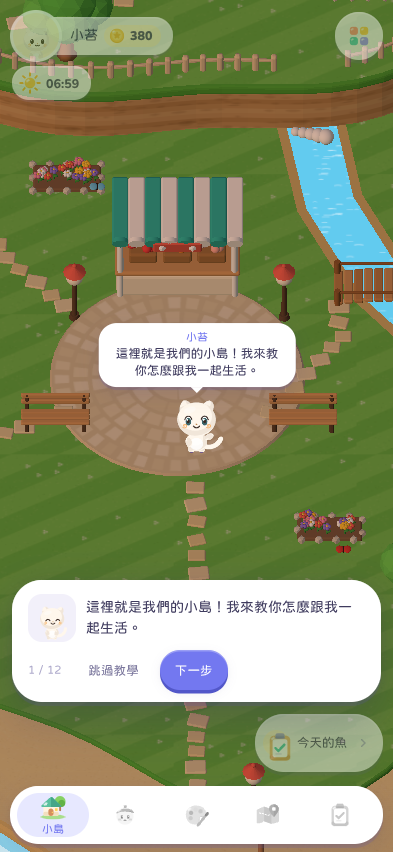
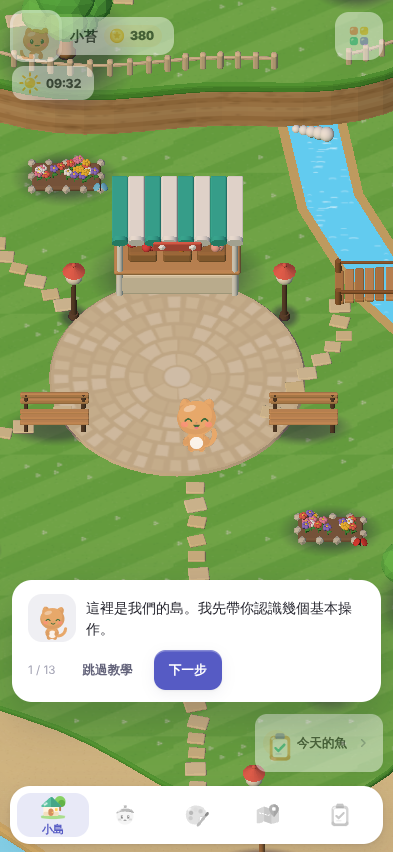
12.0: fix the played semi-mode character idling for the first 40 s after launch (cmdAt started at 0 on a page-relative clock); stabilise v12 tests (polling instead of fixed waits, lowest skill for the level-up cue)
Claude-Session: https://claude.ai/code/session_01PAZxUZ1nduqVoNWZ69f7R7

diff --git a/game/tests/v12/run.js b/game/tests/v12/run.js
@@ -143,7 +143,7 @@ const { check, wait } = H;
         for (const mode of ['manual', 'semi', 'auto']) {
           for (const c0 of OC.Chars.all()) { OC.Brain.setControl(c0.id, mode); const b0 = OC.Brain.get(c0.id); b0.holds.clear(); b0.invited = null; }   // everybody in the same mode: nobody invites a manual one
           for (const who of [id, mate]) {
-            const c = OC.Chars.get(who), b = OC.Brain.get(who); if (b.st === 'do' || b.st === 'go' || b.st === 'social') OC.Brain.abort(b, 't'); b.cmdAt = 0; b.queued = null; if (b.a) b.a.path = null; b.thinkAt = 0;
+            const c = OC.Chars.get(who), b = OC.Brain.get(who); if (b.st === 'do' || b.st === 'go' || b.st === 'social') OC.Brain.abort(b, 't'); b.cmdAt = -1e9; b.queued = null; if (b.a) b.a.path = null; b.thinkAt = 0;
             Object.assign(c.needs, { fun: 15, interest: 15, active: 15, social: 20, food: 85, sleep: 90, energy: 90, comfort: 80 });   // bored and restless, but nothing urgent
             for (let i = 0; i < 8; i++) { OC.Sim.advance(3); await new Promise((r) => setTimeout(r, 200)); }   // let leftovers of the previous mode settle
             if (b.st === 'do' || b.st === 'go' || b.st === 'social') OC.Brain.abort(b, 't'); b.thinkAt = 0; let started = 0; const t0 = Date.now();
@@ -191,7 +191,8 @@ const { check, wait } = H;
       check('7c 導覽列只有圖示；標籤只出現在目前分頁（所有圖示都看得到）', tb.length === 5 && tb.every((t) => t.icon) && tb.filter((t) => t.label > 0.5).length === 1 && tb.find((t) => t.on).label > 0.5, tb);
       await page.evaluate(() => document.getElementById('hud').classList.remove('idle')); await wait(page, 7500);
       const idle = await page.evaluate(() => getComputedStyle(document.querySelector('.hud-me')).opacity);
-      await page.mouse.click(196, 500); await wait(page, 700);
+      await page.mouse.click(196, 500);
+      await page.waitForFunction(() => +getComputedStyle(document.querySelector('.hud-me')).opacity > 0.95, null, { timeout: 15000 }).catch(() => {});
       const awake = await page.evaluate(() => getComputedStyle(document.querySelector('.hud-me')).opacity);
       check('7d 安靜幾秒後 HUD 自己淡出（讓出畫面），一碰就回來', +idle < 0.8 && +awake > 0.95, { idle, awake });
     }
@@ -332,7 +333,7 @@ const { check, wait } = H;
         OC.Sound.unlock(); S.settings.sound = Object.assign({}, OC.Sound.cfg(), { on: true, music: 0, amb: 0 }); OC.Sound.apply(); await sleep(300);
         const [A, B] = OC.Chars.all(); out.state = OC.Sound.state; out.table = Object.entries(OC.Sound.CUES).map(([k, v]) => [k, v[0]]);
         // a skill level-up (a real game event → the card → the phrase)
-        let before = cues(); OC.Mind.skill(A, 'cook', 4000); await until(() => (cues().skill || 0) > (before.skill || 0)); out.skill = (cues().skill || 0) - (before.skill || 0);
+        let before = cues(); const sk = Object.keys(OC.Mind.SKILLS).sort((x, y) => OC.Mind.skillLv(A, x) - OC.Mind.skillLv(A, y))[0];   // the lowest skill (a maxed one cannot level up) out.skillId = sk; OC.Mind.skill(A, sk, 4000); await until(() => (cues().skill || 0) > (before.skill || 0), 40000); out.skill = (cues().skill || 0) - (before.skill || 0); out.stage = { busy: OC.Stage.busy, queue: OC.Stage.queue };
         // the same second: another moment does not stack a second phrase on top
         out.stack = OC.Sound.cue('mini'); await sleep(3200);
         // a new entry in the collection
@@ -364,7 +365,8 @@ const { check, wait } = H;
       await go('home');
       const home = await page.evaluate(() => { const names = []; OC.World.root.traverse((o) => { if (o.material && o.material.blending === THREE.AdditiveBlending) names.push('light'); }); return { blobs: OC.World.contacts, clouds: OC.World.cloudsVisible, lights: names.length, op: (() => { let m = null; OC.World.root.traverse((o) => { if (!m && o.material && o.material.blending === THREE.AdditiveBlending) m = o.material; }); return m ? +m.opacity.toFixed(3) : null; })() }; });
       check('11b 房間裡沒有飄過地板的雲影；窗戶下有兩塊柔和的光（白天亮）；家具有接觸陰影（但房間本體沒有一大片）', !home.clouds && home.lights === 2 && home.op > 0.08 && home.blobs >= 3 && home.blobs <= 14, home);
-      await page.evaluate(() => { OC.Store.s.settings.fixedHour = 23; }); await wait(page, 5000);
+      await page.evaluate(() => { OC.Store.s.settings.fixedHour = 23; });
+      await page.waitForFunction(() => { let m = null; OC.World.root.traverse((o) => { if (!m && o.material && o.material.blending === THREE.AdditiveBlending) m = o.material; }); return m && m.opacity < 0.05; }, null, { timeout: 30000 }).catch(() => {});
       const dark = await page.evaluate(() => { let m = null; OC.World.root.traverse((o) => { if (!m && o.material && o.material.blending === THREE.AdditiveBlending) m = o.material; }); return +m.opacity.toFixed(3); });
       check('11c 到了夜裡，窗戶的光線退去（不會半夜還有太陽照進來）', dark < 0.06, { dark });
       await page.evaluate(() => { OC.Store.s.settings.fixedHour = 13; });

diff --git a/game/js/life/brain.js b/game/js/life/brain.js
@@ -79,7 +79,7 @@
   // ======================= brains =======================
   function attach(a, c, o = {}) {
     let b = brains[c.id];
-    if (!b) b = brains[c.id] = { id: c.id, st: 'think', act: null, slot: null, last: [], holds: new Set(), thinkAt: nowR() + 0.5 + Math.random() * 2, dbg: { cands: [], reason: '' }, cmdAt: 0, queued: null };
+    if (!b) b = brains[c.id] = { id: c.id, st: 'think', act: null, slot: null, last: [], holds: new Set(), thinkAt: nowR() + 0.5 + Math.random() * 2, dbg: { cands: [], reason: '' }, cmdAt: -1e9, queued: null };
     b.a = a; b.manual = !!o.manual; b.st = b.st === 'social' || b.st === 'event' ? 'think' : b.st; b.thinkAt = nowR() + 0.4 + Math.random() * 1.5;
     a.brain = b; b.lastXY = { x: a.x, y: a.y };
     // resume an activity that was running (reload / coming back from another area)
@@ -381,7 +381,7 @@
     b.queued = act; if (b.st === 'do' && D().ACTS[b.act] && D().ACTS[b.act].lock) { dlog(b, '玩家安排（做完手上的事再去）：' + D().ACTS[act].zh); if (b.manual) b.manualOverride = nowR() + 600; return 'later'; }
     if (b.st === 'do' && b.act !== act) finish(b, '玩家安排'); else if (b.st === 'go') abort(b, '玩家安排');
     if (b.st === 'social') endConvOf(b, 'interrupted');
-    b.thinkAt = 0; b.cmdAt = b.manual ? 0 : b.cmdAt; if (b.manual) b.manualOverride = nowR() + 120; return true;
+    b.thinkAt = 0; b.cmdAt = b.manual ? -1e9 : b.cmdAt; if (b.manual) b.manualOverride = nowR() + 120; return true;
   }
   /** the player moved the played OC → abort its own activity */
   function playerAct(id) { const b = brains[id]; if (!b) return; b.cmdAt = nowR(); b.manualOverride = 0; b.queued = null; if (b.st === 'do' || b.st === 'go') { if (b.st === 'do') finish(b, '玩家操作'); else abort(b, '玩家操作'); } if (b.st === 'social') endConvOf(b, 'interrupted'); }
